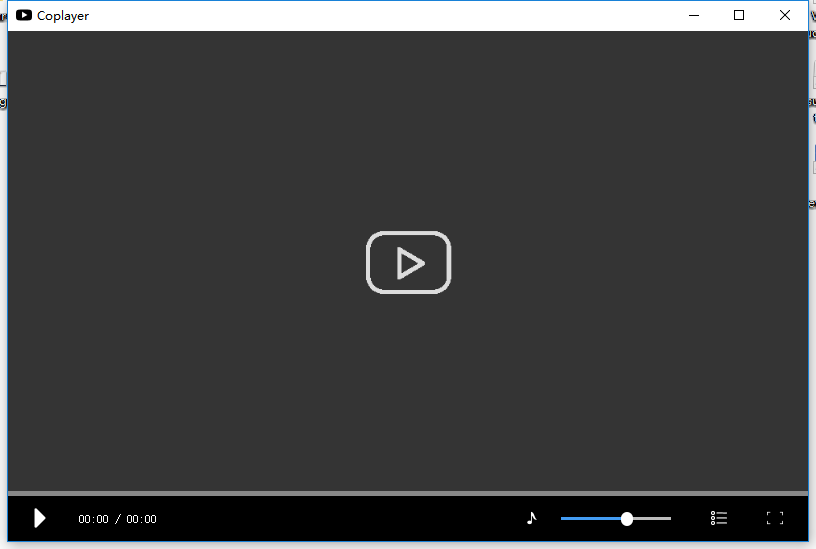
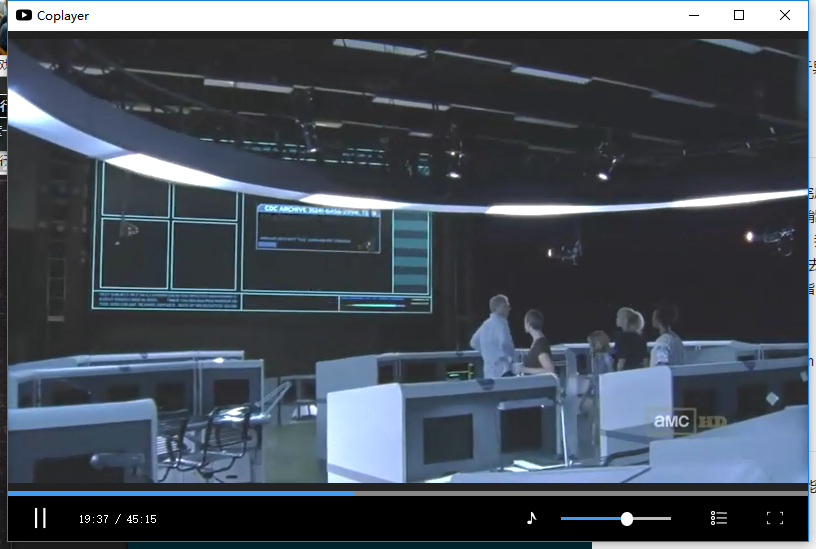
ReadMe

diff --git a/README.md b/README.md
@@ -1,2 +1,15 @@
-# CoPlayer
-A PC Application For Sharing Media.
+#Coplayer
+Coplayer是基于Qt的一款可用于异地同步观影的播放软件。
+
+##关于
+Coplayer还在开发中，目前只完成了播放器的基本功能的界面设计。后续将会添加同步观影功能，实现异地PC同步观影。
+Coplayer是我突发奇想的产物，我会将它作为一个学习Qt和网络通信的项目持续更新、优化下去。希望大家多提提意见，反馈一些Bug，更希望有前辈可以指出代码的问题，我在此不胜感激。
+QQ ： 48596620
+Mail ： g.walkingfrog@gmail.com
+
+##更新日志
+2016.11.3 : 完成播放器基本功能
+2016.11.4 : 美化播放器界面
+
+##程序截图
+![运行截图](https://github.com/WalkingFrog/CoPlayer/blob/master/other/ui.png)
